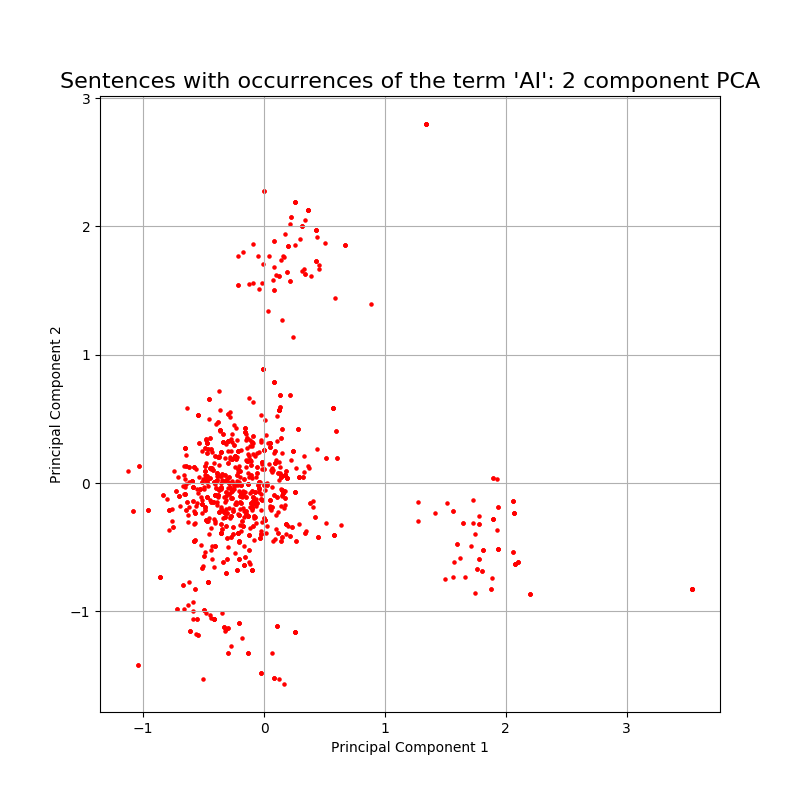
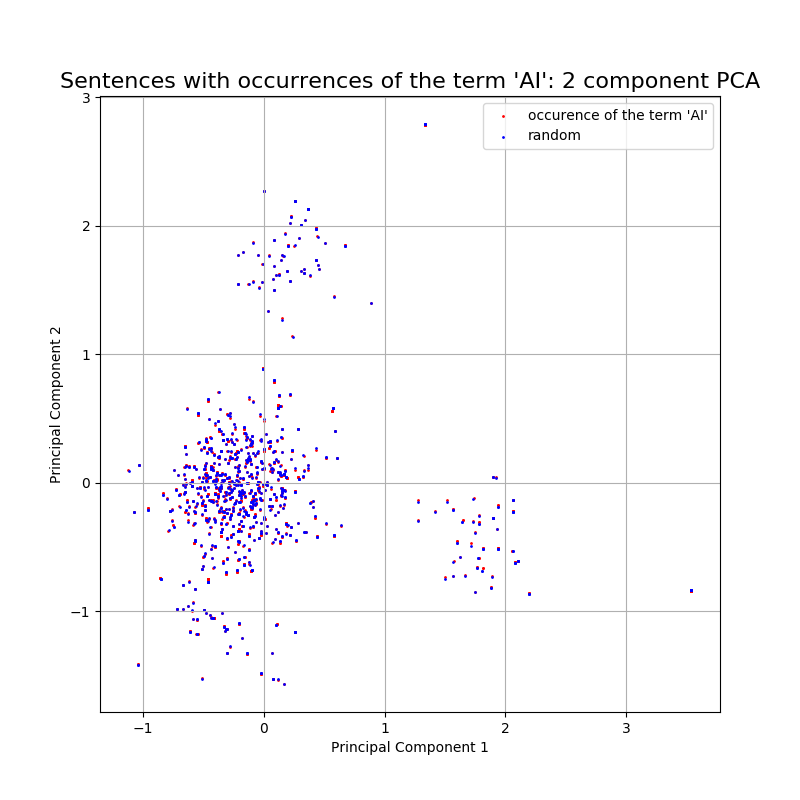
add visualization of random sentences for comparison

diff --git a/prototype_for_term_AI/visualize_raw_sentence_vectors.py b/prototype_for_term_AI/visualize_raw_sentence_vectors.py
@@ -5,22 +5,27 @@ import numpy as np
 import pandas as pd
 from matplotlib import pyplot as plt
 
-matrices = np.load("../data/sentences_vectors.npy")
-long_sentences = [np.array(sentence) for sentence in matrices if len(sentence) >= 10]
-flatten_matrices = np.zeros((len(long_sentences), 3000))
 
-for i, sentence in enumerate(long_sentences):
-    sentence = sentence[:10]
-    sentence = np.concatenate([np.array(word) for word in sentence])
-    flatten_matrices[i] = sentence
+def filter_flatten_pca_transform(matrices):
+    long_sentences = [np.array(sentence) for sentence in matrices if len(sentence) >= 10]
+    flatten_matrices = np.zeros((len(long_sentences), 3000))
 
-pca = PCA(n_components=2)
+    for i, sentence in enumerate(long_sentences):
+        sentence = sentence[:10]
+        sentence = np.concatenate([np.array(word) for word in sentence])
+        flatten_matrices[i] = sentence
 
-principalComponents = pca.fit_transform(flatten_matrices)
-principalComponents3 = pca.fit_transform(flatten_matrices)
+    pca = PCA(n_components=2)
 
-principalDf = pd.DataFrame(data=principalComponents
-                           , columns=['principal component 1', 'principal component 2'])
+    principal_components = pca.fit_transform(flatten_matrices)
+    principal_df = pd.DataFrame(data=principal_components
+                               , columns=['principal component 1', 'principal component 2'])
+    return principal_df
+
+matrices_AI = np.load("../data/sentences_vectors.npy")
+comparison_matrices = np.load("../data/sentences_vectors.npy")
+df_AI = filter_flatten_pca_transform(matrices_AI)
+df_comparison = filter_flatten_pca_transform(comparison_matrices)
 
 fig = plt.figure(figsize = (8,8))
 ax = fig.add_subplot(1,1,1)
@@ -28,10 +33,14 @@ ax.set_xlabel('Principal Component 1', fontsize = 10)
 ax.set_ylabel('Principal Component 2', fontsize = 10)
 ax.set_title("Sentences with occurrences of the term 'AI': 2 component PCA", fontsize = 16)
 
-ax.scatter(principalDf["principal component 1"],principalDf["principal component 2"]
+ax.scatter(df_AI["principal component 1"],df_AI["principal component 2"]
 , c = 'red'
-, s = 5)
+, s = 1)
+ax.scatter(df_comparison["principal component 1"],df_comparison["principal component 2"]
+, c = 'blue'
+, s = 1)
 ax.grid()
+ax.legend(["occurence of the term 'AI'","random"])
 
 plt.savefig("../results/sentences_with_the_term_AI_2d")
 plt.show()

diff --git a/prototype_for_term_AI/search_occurences.py b/prototype_for_term_AI/search_occurences.py
@@ -1,6 +1,7 @@
 import pandas as pd
 import numpy as np
 import re
+import random
 
 """
 Note: The data isn't in the repository,
@@ -9,6 +10,7 @@ and https://www.kaggle.com/hsankesara/medium-articles
 
 """
 
+
 def extract_sentences_from_article(art):
     ends_of_sentences = [m.start() for m in re.finditer('\.|!|\?', art)]
     occurencies_AI = [m.start() for m in re.finditer('(AI)|(Artificial Intelligence)', art)]
@@ -16,18 +18,32 @@ def extract_sentences_from_article(art):
                  if ends_of_sentences[e]<oc_ai and ends_of_sentences[e+1]>oc_ai]
     return sentences
 
+
+def extract_rand_sentence(art):
+    ends_of_sentences = [m.start() for m in re.finditer('\.|!|\?', art)]
+    rand_i = random.randint(0,len(ends_of_sentences)-2)
+    return art[ends_of_sentences[rand_i]:ends_of_sentences[rand_i+1]]
+
 medium_articles_textes = pd.read_csv("../data/articles.csv")["text"]
 questions = pd.read_csv("../data/questions.csv")["question1"].dropna()
 
 articles_mask = medium_articles_textes.str.contains(" AI ")
+articles_mask2 = medium_articles_textes.str.contains(" Artificial Intelligence ")
 filtered_articles = pd.concat(
     (medium_articles_textes[articles_mask],
-     medium_articles_textes[-articles_mask][medium_articles_textes.str.contains(" Artificial Intelligence ")]))
+     medium_articles_textes[np.bitwise_and(-articles_mask,articles_mask2)]))
+
+other_articles = [extract_rand_sentence(art) for art in medium_articles_textes[np.bitwise_and(
+    -articles_mask, -articles_mask2)][:700]]
+
 sentences = [s for article in filtered_articles for s in extract_sentences_from_article(article)]
-print(sentences)
 question_mask = questions.str.contains(" AI ")
+question_mask2 = questions.str.contains(" Artificial Intelligence ")
 filtered_questions = pd.concat((
     questions[question_mask],
-    questions[-question_mask][questions.str.contains(" Artificial Intelligence ")]))
-
+    questions[np.bitwise_and(-question_mask,question_mask2)]))
+other_questions = [q for q in questions[np.bitwise_and(-question_mask,-question_mask2)][:700]]
+print(other_questions)
 np.save("../data/containAI.npy",np.concatenate((sentences,filtered_questions.values)))
+np.save("../data/random_sentences.npy",np.concatenate((other_articles,other_questions)))
+

diff --git a/prototype_for_term_AI/create_features.py b/prototype_for_term_AI/create_features.py
@@ -16,7 +16,10 @@ def load_vectors(fname):
 
 
 def get_features(words,vectors):
-    return np.stack([vectors.loc[word].values for word in words])
+    result = [vectors.loc[word].values for word in words if word in df_keys.values.reshape(-1)]
+    if result:
+        return np.stack(result)
+    return None
 
 """The structure of unwrapped_vectors is nested, that's why they are turned into a Dataframe
 before the words and their vectors are mapped together again"""
@@ -33,6 +36,8 @@ analyze = vectorizer.build_analyzer()
 
 parsed_sentences = list()
 for sentence in sentences:
-    parsed_sentences.append(get_features(analyze(sentence),vectors_df))
+    sentence_matrix = get_features(analyze(sentence),vectors_df)
+    if not sentence_matrix is None:
+        parsed_sentences.append(sentence_matrix)
 
 np.save("../data/sentences_vectors",parsed_sentences)

diff --git a/README.md b/README.md
@@ -3,8 +3,8 @@ Statistics about texts with occurence of buzzwords. The prorotype takes only the
 ## Data
 - https://www.kaggle.com/quora/question-pairs-dataset
 - https://www.kaggle.com/hsankesara/medium-articles
-## First Results
-Note: The results are not carefully checked yet. That's why a comparison with "normal" sentences is needed.
+## Current Results
+The clusters are not connected to the term "AI". Need to preprocess sentences in a new way
 ![alttext](results/sentences_with_the_term_AI_2d.png) 
 ## References 
 Word representations from: T. Mikolov, E. Grave, P. Bojanowski, C. Puhrsch, A. Joulin. [Advances in Pre-Training Distributed Word Representations](https://arxiv.org/abs/1712.09405)
